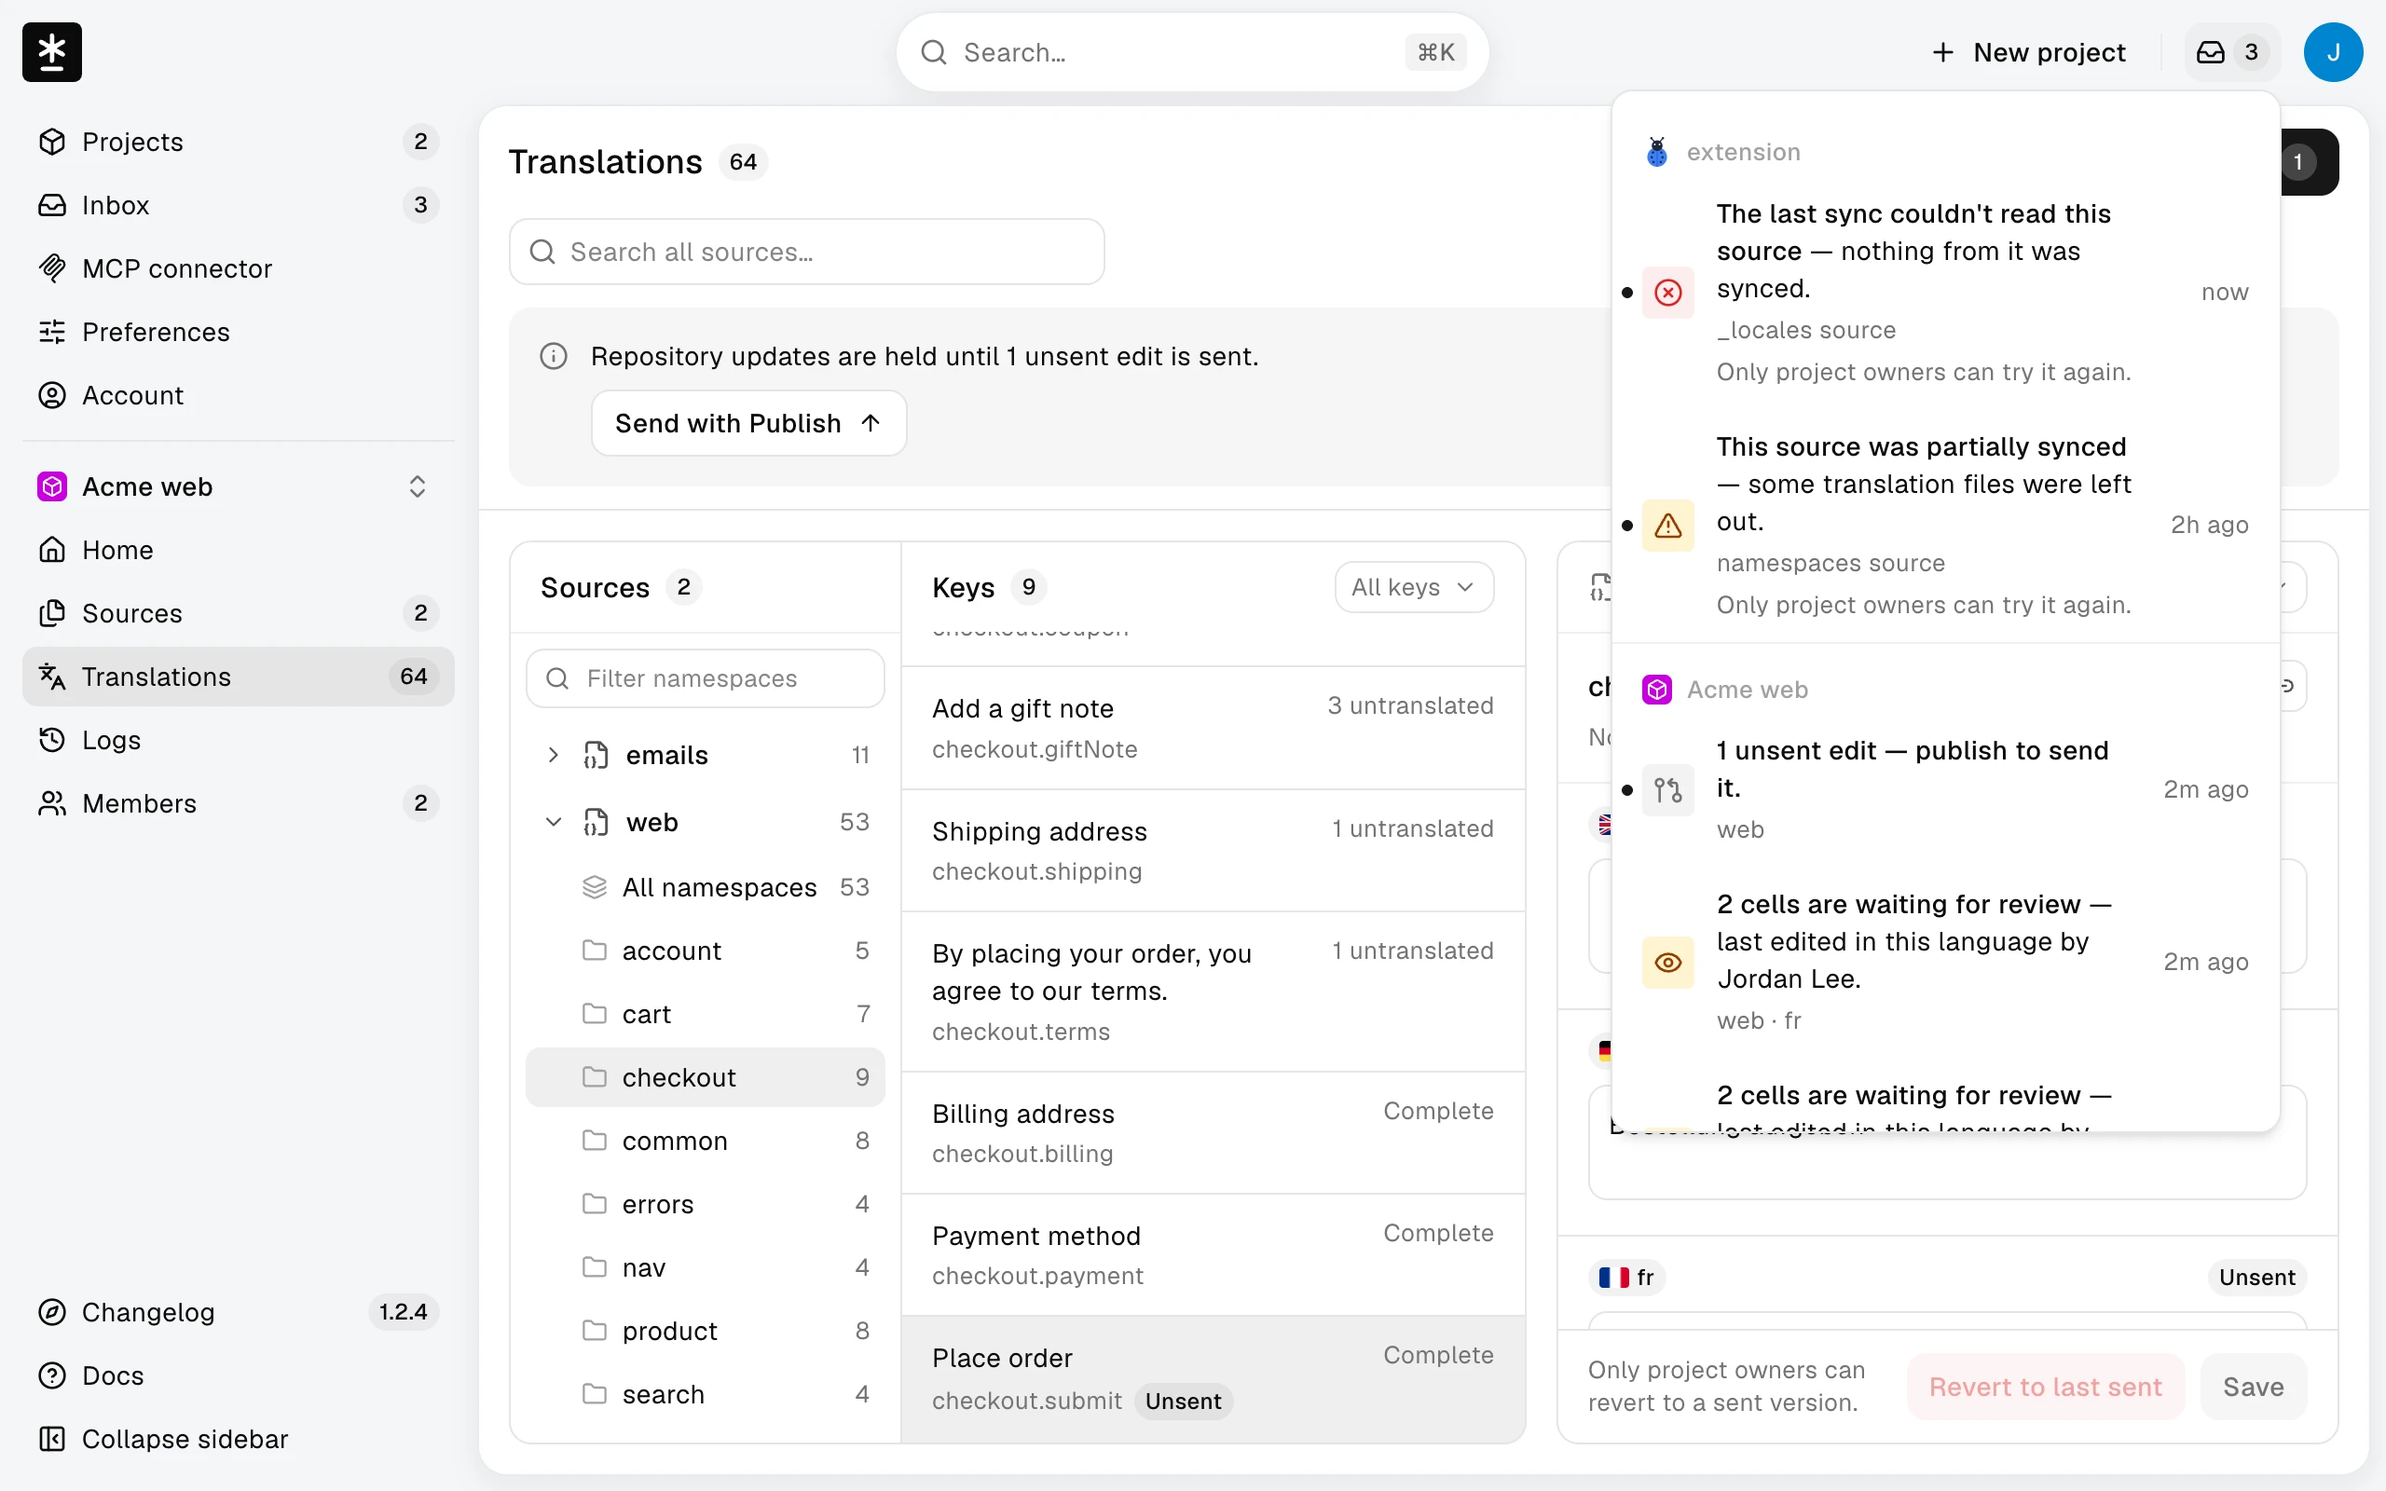
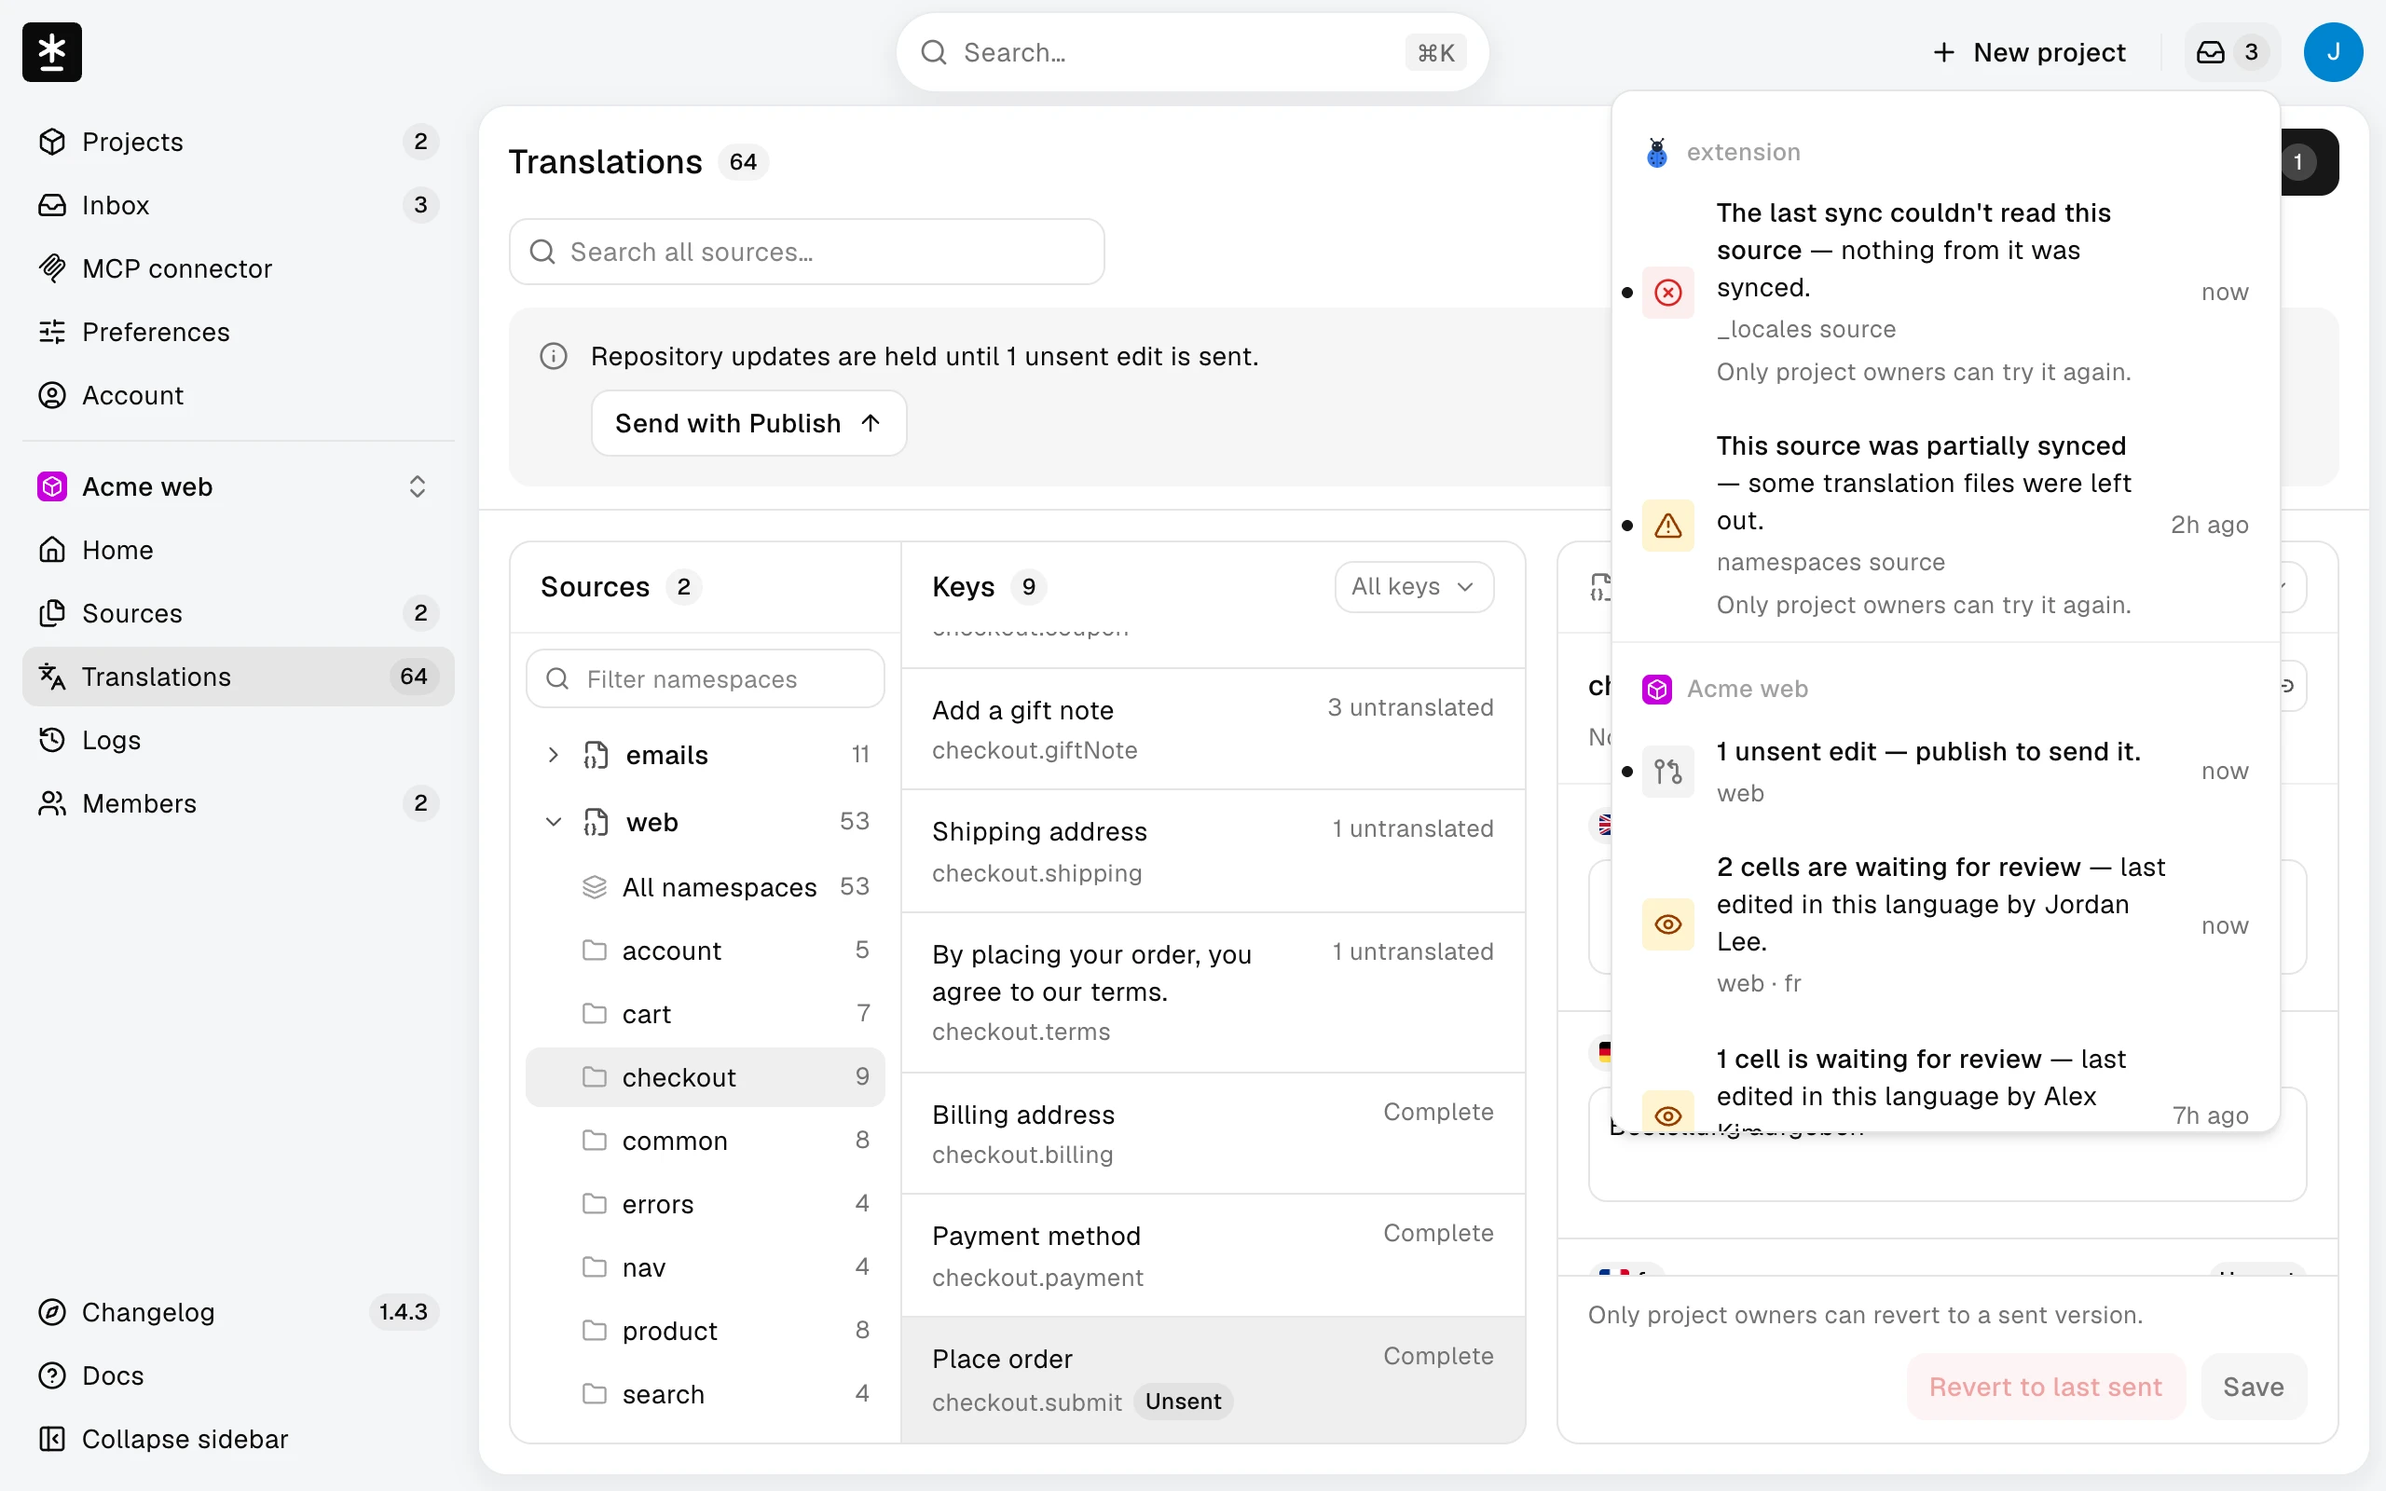
docs(guide): reshoot the Inbox cuts after unread-first ordering

diff --git a/guide/SHOOTING.md b/guide/SHOOTING.md
@@ -171,8 +171,8 @@
 | /guide/archive-card.webp | components/settings/archive-card.tsx | fbf5ba1bd7b87ff3c8ea910d2876d810b3deb440 | 2560x1600 |
 | /guide/accept-invitation.webp | app/invite/[token]/page.tsx, components/invite/project-card.tsx, components/signin/auth-layout.tsx | d4d36ad336ad4d41488b964252c22a299fd49457, f9d7dc35d9d0493e3105516374f0e78a24ad7fe2, ba72c94d3b0d2211607221055fa104ef50e4b032 | 2560x1600 |
 | /guide/state-filter.webp | components/translations/workspace/filter-menu.tsx, components/translations/workspace/key-list.tsx, dict:translations.workspace.filters.state.any, dict:translations.workspace.filters.state.incomplete, dict:translations.workspace.filters.state.unsent, dict:translations.workspace.filters.state.review, dict:translations.workspace.filters.state.new | 890b223a1897f5bc723c15e92090c1e1b52cb9e7, 2c42ea96c69fe2f89dd975ed4d0435bab8f2df2b, b823bb9b42b3672439670b5267fe5328d7524380, 387fd1bbc18419e26c612f4acad9213e5073ade4, 0d09fa0d8c890b48da20aefe409a39eb962b5114, 33a506cf6ec5a56c261838f0a5a3d29cd7f2dacc, d446176b65708906041b4a7df027fa8e2155349d | 2560x1600 |
-| /guide/inbox-open.webp | components/shell/attention-inbox.tsx, lib/home/attention-view.ts, lib/inbox/plan.ts, components/inbox/row-slots.tsx | 923e6db193fd4c529d08b90415ec621c149ea0b2, edbbb141b2877391ee384376b69298ae30d301da, 4145fd76f2c3729a2975d9c5f53c87195e710f80, 733b1e879b07ca09c03a8687fde5d75a037fde68 | 2560x1600 |
-| /guide/inbox-page.webp | app/(edit)/inbox/page.tsx, components/inbox/inbox-list.tsx, components/inbox/row-slots.tsx, lib/inbox/plan.ts | df74c31a4dd36d61615638890d73981e0d854782, be439ea0b57a08136990b9c26fa176cb9a84c38e, 733b1e879b07ca09c03a8687fde5d75a037fde68, 4145fd76f2c3729a2975d9c5f53c87195e710f80 | 2560x1600 |
+| /guide/inbox-open.webp | components/shell/attention-inbox.tsx, lib/home/attention-view.ts, lib/inbox/plan.ts, components/inbox/row-slots.tsx | 5aead9b313ab4e1dd95b66b3771d4c1ebb1dc601, 44ba5a337622f6a528b556ffaead8da40e3848b7, 987abc221641adf505a93be523842f372a280c42, bb83f0799e4905201eae5d7120a3ccb70b6f2d44 | 2560x1600 |
+| /guide/inbox-page.webp | app/(edit)/inbox/page.tsx, components/inbox/inbox-list.tsx, components/inbox/row-slots.tsx, lib/inbox/plan.ts | df74c31a4dd36d61615638890d73981e0d854782, b3a9074b423dd11a1139d71e19ddf98480099630, bb83f0799e4905201eae5d7120a3ccb70b6f2d44, 987abc221641adf505a93be523842f372a280c42 | 2560x1600 |
 | /guide/home-publish.webp | app/(edit)/projects/[slug]/(home)/page.tsx, components/home/count-cards.tsx, components/publish-button.tsx, dict:projects.summary.newFromGithub, dict:home.meta.platform | 5343d0d52371aa4a83e0d8ad9eeac50dbb1a44aa, 6fb483d9bcbce96a3390bed0bb6d9a9c200ed852, 035ee1364fd82710d1ca646d93aa523817475b2f, d446176b65708906041b4a7df027fa8e2155349d, 3960ec4ca5fb5e5d8cdb2cc1c5121c003e426517 | 2560x1600 |
 | /guide/publish-result.webp | components/publish-button.tsx | 035ee1364fd82710d1ca646d93aa523817475b2f | 2560x1600 |
 | /guide/home-paused.webp | app/(edit)/projects/[slug]/(home)/page.tsx, components/home/count-cards.tsx, components/home/meta-column.tsx, components/home/meta-tabs.tsx, dict:home.cards.held.pending-edits, dict:projects.summary.newFromGithub | 5343d0d52371aa4a83e0d8ad9eeac50dbb1a44aa, 6fb483d9bcbce96a3390bed0bb6d9a9c200ed852, 0e67fc7c827d5c28da3bf0c9f7ea71a127c27c6f, 326a71e9fadefec3992bad2e9acf0192fa107a35, e7daa697ea395700d6e0a57f5dc83a59b2b30aa7, d446176b65708906041b4a7df027fa8e2155349d | 2560x1600 |
@@ -294,3 +294,4 @@
 - 2026-10-16 `source-remove` **재촬영**(소스 제거 낱말이 Detach로 바뀌었다 — 제목 `Detach emails from this project?` · 버튼 `Detach source`, 1280×800 · DPR 2, WebP quality 90). ⚠ **`pnpm guide:check`가 이 컷을 잡지 못했다** — 바뀐 것은 사전(`messages/en.tsx`)이고 매핑 소스는 컴포넌트 둘이라 SHA가 그대로였다. 사전 문구가 바뀌면 그 문구를 그리는 컷을 손으로 찾는다. `Page.captureScreenshot`이 계속 타임아웃이라 `Page.printToPDF`(1280×800 · 여백 0 · 배경 인쇄) → CoreGraphics 8/3배 래스터화로 찍었다. 그 경로는 `backdrop-filter`를 버리므로 그림자를 끄고, 오버레이의 `backdrop-blur-[6px]` 대신 셸 루트에 `filter: blur(6px)`를 걸어 옛 컷과 같은 흐림을 냈다. 계정 테마가 `system`이라 `prefers-color-scheme: light`를 에뮬레이트했다. **SHA만 갱신 1**: `source-details` — `source-detail-modal.tsx`는 주석의 라벨 이름만 바뀌어 화면이 같다.
 - 2026-10-17 locale-add GS — `guide:check` stale 16컷(21건) 정리 + 새 컷 넷 **추가**(`setup/languages.md` 세 언어에 같은 경로로 참조). **재촬영 18**(1280×800 · DPR 2, WebP quality 90): OWNER `project-home` · `sources` · `source-details`(Languages 카드 머리에 Add language · 행마다 Remove language) · `source-remove` · `logs-list`(언어 이름이 `Japanese`·`French` 표준형 — D13) · `logs-event`(QA 프로젝트의 같은 사건 `evt_292d…`) · `home-sync-tab` · `home-paused` · `sync-discard`(Project 탭) · `revert-confirm` · `sign-out-everywhere`(확인창 회색 문장이 바뀌었다 — 보안 인계, `guide:check`가 못 잡는다) · `create-files` · `add-sources`(D13 후보 — 화면 문구는 그대로였지만 같이 찍었다) / EDITOR `translation-editor` · `translation-edit` · `unsaved-changes` · `home-publish` · `publish-result`. **SHA만 갱신 1**: `publish-preview` — 번역만 든 미리보기(1건)를 지금 코드로 띄워 옛 컷과 견줬더니 파일 머리(`N changes · N keys`)·행·작성자 배치가 같다. 언어 변경이 섞일 때만 머리가 `New file`·`Removed`로 바뀐다. **추가 4**: `languages-card` · `language-add` · `language-remove` · `publish-language-changes`(인계의 선택 컷 — 번역 변경 0 + `ja` 제거만이라 제목이 `Publish language changes`). 셋업(OWNER, `emails`): ① 비활성 행을 만들 길이 Publish+머지뿐이라 **`Locale` 행 `ko`(orphaned, 번역 0)를 SQL로 심었다** ② `welcome.cta` ja를 저장(미전달 1) ③ `es` 추가 대화상자 촬영 → 추가 ④ `ja` 제거 확인창 촬영 → 제거(미전달 1건이 마지막 전달 값으로 돌아갔다) ⑤ `welcome.cta` es 저장(Adding+Unsent) → 카드 촬영 → (번역+언어 미리보기는 촬영만 하고 버렸다) ⑥ `es` 추가 취소(번역 1건과 함께 Inactive가 된다) → 언어만 남은 미리보기 촬영 ⑦ `ja` 제거 취소 ⑧ `es`·`ko`의 `Locale`·`Translation`·`TranslationBaseline` 행을 그 소스 id로 좁힌 SQL로 지웠다. Publish·Sync 실행 없음(EDITOR의 `Nothing differs` Publish만 — GitHub 쓰기 없음). 전후 대조: `acme-web` 로케일 여덟·`LocaleChange` 0·미전달 0 그대로, 사건 142→154(전체 1513→1525), 계정 언어·테마·OAuth·API 토큰·`GitLabConnection` 불변. 남은 흔적: 되돌린 칸 셋(`checkout.submit` de·fr, `welcome.cta` ja)의 `updatedBy`·`updatedAt`이 촬영 계정으로 바뀌었다(값·검토 상태는 그대로 — 이전 회차의 Revert 셋업과 같다). ⚠ **새로 밟은 것**: ① 모달 안에서 `scrollIntoView`를 부르면 **고정 위치 대화상자 자체**(`fixed top-1/2`)가 스크롤돼 아래에 빈 띠가 생긴다 — 대화상자의 `scrollTop`을 0으로 두고 안쪽 그릇(`flex min-h-0 flex-1`)만 스크롤한다. ② EDITOR 세션의 헤더 아바타는 이미지가 아니라 이니셜 원(`bg-hue-*`)이라 `EDITOR_IMGS` 치환이 안 걸린다 — 이니셜을 `J`로 바꾸고 클래스를 `bg-hue-sky`로 갈아 끼운다. ③ `go()`의 `Something went wrong` 검사가 Logs 행 문장(`publish failed … Something went wrong`)에 걸려 오탐했다 — 사건 상세는 그 검사 없이 찍었다.
 - 2026-10-18 source-row-locale-meter GS — `guide:check` stale 20컷(22건) 정리. **재촬영 17**(1280×800 · DPR 2, WebP quality 90): OWNER `project-home` · `home-sync-tab` · `sources`(행마다 언어 막대 — 이번 기능) · `source-details` · `source-remove` · `gitlab-ci-file`(job이 `malmoi-i18n-push-gitlab-v2` 태그·SHA를 박는다, `MALMOI_I18N_API_URL` 줄은 지웠다) · `languages-card`(진행률 칸이 개수 기준 200 고정 · 비활성 띠 `It has no translations.`) · `language-add` · `language-remove` · `publish-language-changes` · `home-paused`(Sync 탭) · `revert-confirm` / EDITOR `translation-editor` · `translation-edit` · `unsaved-changes` · `home-publish` · `publish-result`. **SHA만 갱신 3**: `publish-preview` — 번역만 든 미리보기(1건)를 지금 코드로 띄워 옛 컷과 견줬더니 제목·PR 줄·파일 머리(`N changes · N keys`)·행·작성자·바닥 배치가 같다(`publish-button.tsx`의 변경은 요청 정리 갈래와 행 0 표 생략이다) · `gitlab-ci-variable` · `gitlab-protected-branch`(gitlab.com 화면 — `gitlab-ci.ts`의 태그·SHA 줄은 그 폼에 안 들어간다). ⚠ 기록된 blob 여럿(`workspace.tsx` · `publish-button.tsx` · `source-detail-modal.tsx` · `language-row.ts` · `remove-locale-dialog.tsx`)이 어느 커밋에도 없는 값이었다(v1.4.3 squash 전 작업 트리에서 잰 값) — diff로 화면 불변을 판정할 수 없어 다시 찍었다. 셋업은 10-17 판과 같다(`emails`에 `ko` orphaned 행 SQL → `welcome.cta` ja 저장 → `es` 추가 대화상자 → 추가 → `ja` 제거 확인창 → 제거 → `welcome.cta` es 저장 → 카드 → `es` 추가 취소 → 언어만 남은 미리보기(PR 안 엶) → `ja` 제거 취소 → `es`·`ko`의 `Locale`·`Translation`·`TranslationBaseline` 행을 그 소스 id로 좁힌 SQL로 삭제 · OWNER `checkout.submit` de `Jetzt bestellen` → paused·Revert 확인창 → 실제 Revert · EDITOR fr `Passer la commande` → Home·미리보기(PR 안 엶) → 빈 값 재저장 → Publish(`Nothing differs`) → 결과). 전후 대조: `acme-web` 로케일 여덟·`LocaleChange` 0·미전달 0(전체) 그대로, 사건 154→166(전체 1606→1618), 계정 언어·테마·`attentionSeenAt`·OAuth·API 토큰·`GitLabConnection` 불변, GitHub 쓰기 없음. ⚠ **새로 밟은 것**: ① 버튼·행을 `element.click()`(DOM)으로 누르면 키보드 모달리티로 남아 대화상자가 연 첫 버튼·X·대화상자 자체에 `:focus-visible` 링이 찍힌다 — 실제 포인터 클릭(`page.click`·`page.mouse.click`)으로 열고, 그래도 링이 남으면 캡처 직전 그 요소의 `outline`만 끈다. ② Radix 탭(`Sync`)은 DOM `click()`이 먹지 않는다(탭 전환은 pointerdown) — `page.click('loc=role:tab[name="Sync"]')`. ③ 언어 막대가 선 Sources는 `[data-source-row]:has-text("emails")`로 연다.
+- 2026-10-18 project-row-redesign G — `guide:check` stale 2컷(7건) **재촬영**(1280×800 · DPR 2, WebP quality 90, EDITOR): `inbox-open` · `inbox-page`. 바뀐 것은 Inbox 정렬(안 읽은 항목이 있는 프로젝트 먼저 — `86ce7a67`)과 연결 끊김 항목(`needs_reconnect`)의 추가다. 촬영 픽스처에는 끊긴 프로젝트가 없어 그 항목은 컷에 없다 — 장면은 전 판과 같다(그룹 둘 · 안 읽은 점 셋). 매핑 소스·치수 그대로, SHA 갱신. 셋업: Google로 EDITOR 로그인 → `checkout.submit` fr `Passer la commande` 저장 → 그 **뒤에** `bugshot-i18n-test-qa`의 `_locales`에 `import-failed`(now) · `namespaces`에 `partial-import`(2h 전)를 심었다 → EDITOR `attentionSeenAt` NULL → `inbox-open`(번역 화면 위 드롭다운) → 다시 NULL → `inbox-page` → 실패 표시 NULL 복원 → 빈 값 재저장 → Publish(`Nothing differs` 확인 뒤에만 누름 → `Nothing changed in the files`) → EDITOR `attentionSeenAt`을 촬영 전 원문 `2026-10-10 23:14:42.633`으로 복원 → 로그아웃 → GitHub로 OWNER 복귀. 전후 대조: 미전달 0→0(전 프로젝트), `acme-web` 사건 166→169(편집·재저장·Publish), 전체 1618→1621, 실패 표시 0, 계정 언어·테마·`attentionSeenAt`·세션 수·OAuth·API 토큰·`GitLabConnection`·`acme-web` 로케일 불변, GitHub 쓰기 없음. ⚠ **새로 밟은 것**: 드롭다운 컷 다음 명령(`keyboard.press("Escape")` + `clearDeviceMetricsOverride`)이 출력 없이 멈췄다(원인 미확인 — 끊고 같은 Escape만 다시 보내자 바로 됐다). 그 명령 뒤에 이은 DB 쓰기·스크립트 작성도 함께 돌지 않았으므로, 멈춘 체인을 끊었으면 뒤 단계가 실행됐는지 하나씩 확인한다.
